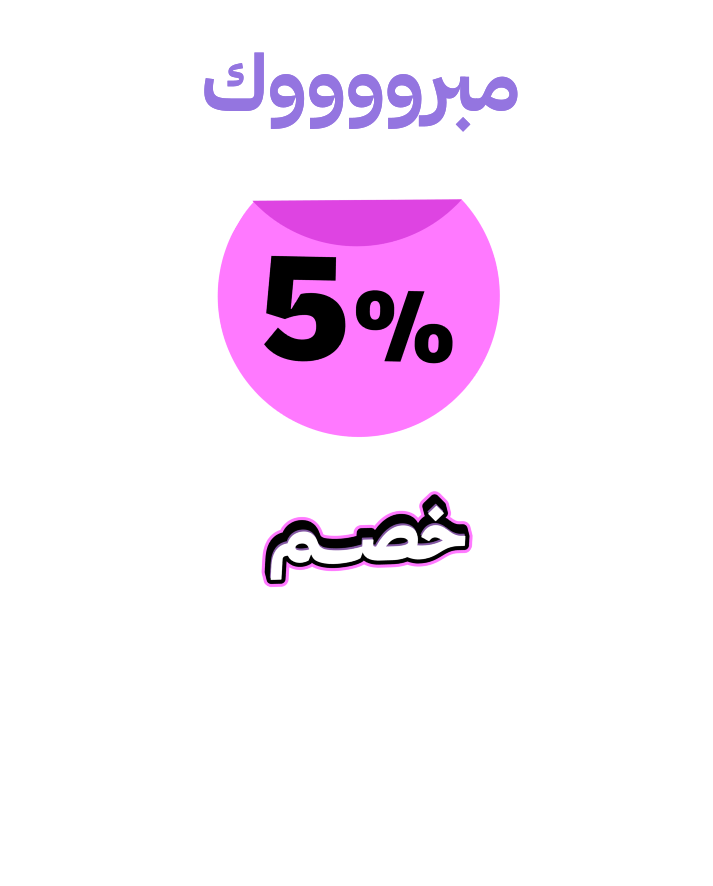
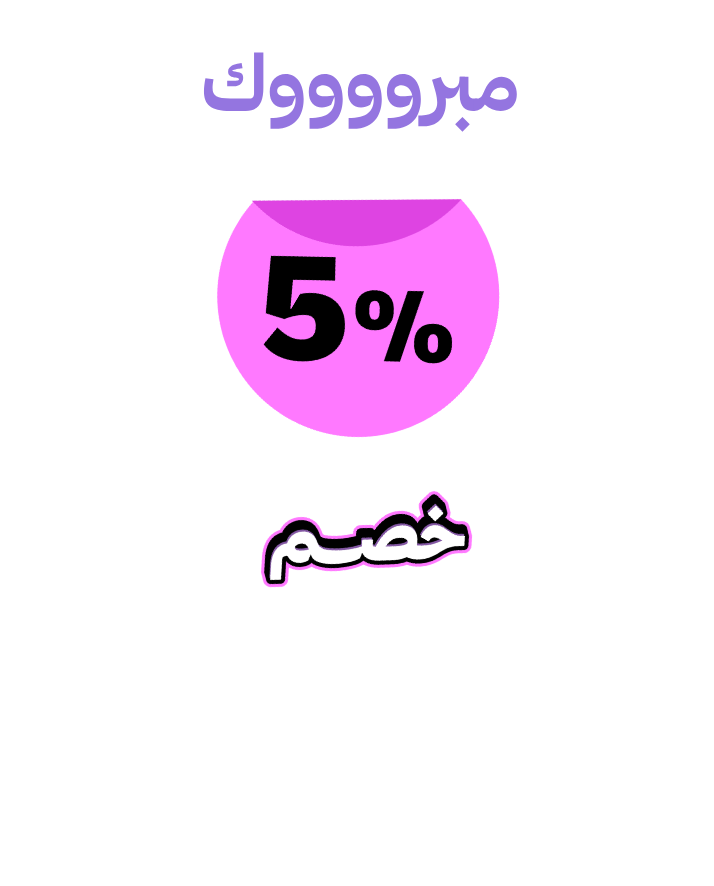
Update wheel and prize artwork from NEW DA Figma design

diff --git a/campaign.html b/campaign.html
@@ -15,7 +15,7 @@ const weDATA=[
  {id:"gift",n:"كود المفاجأة",c:"TEST-GIFT",i:7,w:4.9946,screen:1}
 ];
 const ASSET_BASE="https://raw.githubusercontent.com/khatib707/black-friday-da/main/assets/";
-const ASSETS={"overlay":"overlay.png","title":"title.png","pointer":"pointer.png","lever":"lever.png","wheel":"wheel.png","spin-label":"spin-label.png","sponsor-label":"sponsor-label.png","sponsors":"sponsors.png","shop-label":"shop-label.png","copy-icon":"copy-icon.png","result0":"result0.png","result1":"result1.png","result2":"result2.png","result3":"result3.png","result4":"result4.png","result5":"result5.png","result6":"result6.png","result7":"result7.png"};
+const ASSETS={"overlay":"overlay.png","title":"title.png","pointer":"pointer.png","lever":"lever.png","wheel":"wheel.png?v=new-da-20261103","spin-label":"spin-label.png","sponsor-label":"sponsor-label.png","sponsors":"sponsors.png","shop-label":"shop-label.png","copy-icon":"copy-icon.png","result0":"result0.png","result1":"result1.png","result2":"result2.png","result3":"result3.png","result4":"result4.png","result5":"result5.png?v=new-da-20261103","result6":"result6.png","result7":"result7.png?v=new-da-20261103"};
 for(const key in ASSETS)ASSETS[key]=ASSET_BASE+ASSETS[key];
 const $=id=>document.getElementById(id);
 for(const [id,key] of Object.entries({shade:"overlay",title:"title",pointer:"pointer",lever:"lever",wheel:"wheel",spinLabel:"spin-label",sponsorLabel:"sponsor-label",sponsors:"sponsors",shopLabel:"shop-label",copyIcon:"copy-icon"}))$(id).src=ASSETS[key];

diff --git a/README.md b/README.md
@@ -1,3 +1,9 @@
 # WebEngage campaign assets
 
-Original campaign images and HTML with externally hosted assets. Paste campaign.html into WebEngage. Original TEST coupon codes and empty SHOP_URL are preserved.
+Arabic RTL spin-the-wheel campaign for WebEngage. Paste `campaign.html` into WebEngage; images are hosted in this repository and loaded through public GitHub raw URLs.
+
+The wheel, 5% discount panel (`assets/result5.png`), and 15% cashback panel (`assets/result7.png`) were updated from the supplied `NEW DA Black Friday.fig` design: https://www.figma.com/design/JPnM5p3JhZ1YnV8ErubSiM/NEW-DA-Black-Friday. The wheel retains the design's rotation so its segments match the existing prize selection. Updated image references include a cache version.
+
+Prize probabilities and coupon logic are unchanged. Codes are still hardcoded `TEST-*` placeholders; Google Sheets / Apps Script allocation is not implemented here. The current shopping URL is `https://daralamirat.com.sa/`.
+
+Keep the HTML below 10,000 characters. Publishing changes to GitHub updates the hosted assets, but does not update HTML already pasted into WebEngage or deploy Google Apps Script.
